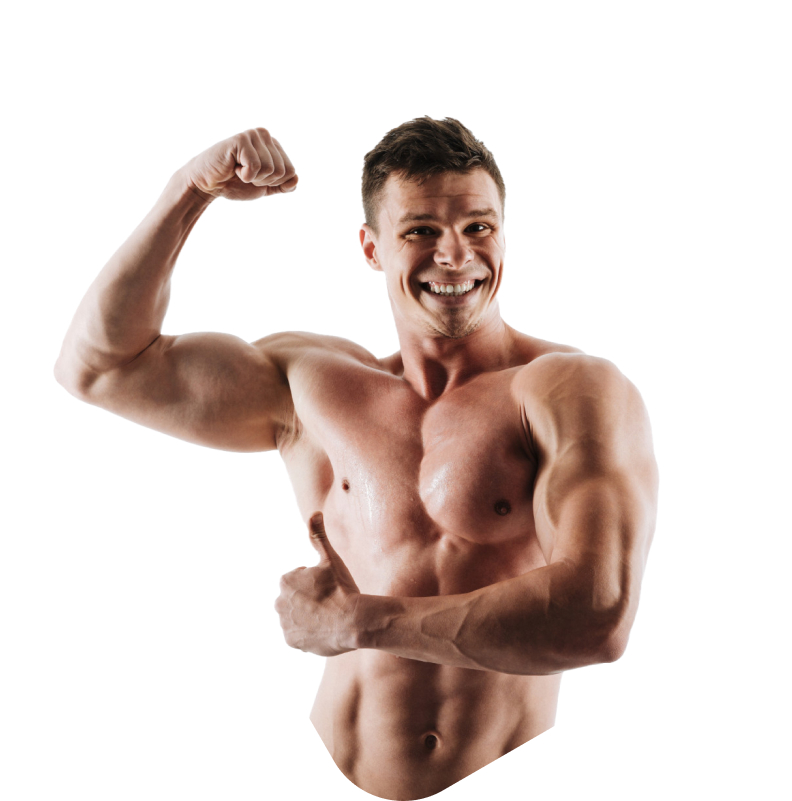
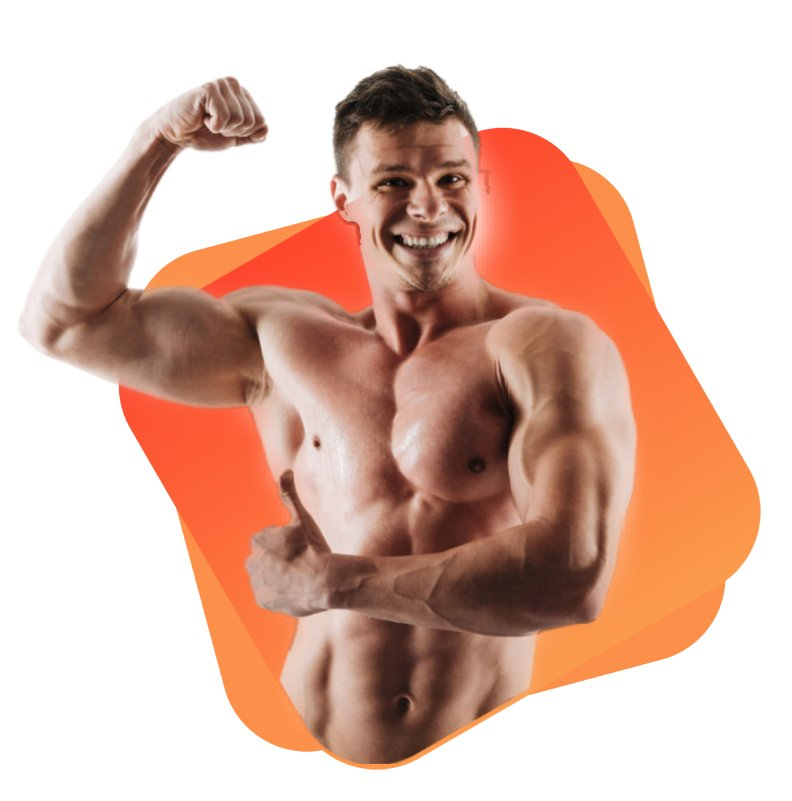
Section One partly completed

diff --git a/index.html b/index.html
@@ -9,16 +9,26 @@
     <link rel="preconnect" href="https://fonts.googleapis.com">
     <link rel="preconnect" href="https://fonts.gstatic.com" crossorigin>
     <link href="https://fonts.googleapis.com/css2?family=Mochiy+Pop+One&family=Poppins:wght@400;800&display=swap" rel="stylesheet">
+    <link rel="preconnect" href="https://fonts.googleapis.com">
+    <link rel="preconnect" href="https://fonts.gstatic.com" crossorigin>
+    <link href="https://fonts.googleapis.com/css2?family=Mochiy+Pop+One&family=Montserrat:wght@500&family=Poppins:wght@400;800&display=swap" rel="stylesheet">
 </head>
 <body>
     <section class="Food-network">
         <div class="Food-network-div-1">
-            <h1><span>Skip</span> The Diet,</h1>
-            <h1>Just Eat Healthy</h1>
-            <h1>With Food Network</h1>
+            <div class="Food-network-child-div-1">
+                <h1><span>Skip</span> The Diet,</h1>
+                <h1>Just Eat Healthy</h1>
+                <h1>With Food Network</h1>
+            </div>
+            <div class="Food-network-child-div-2">
+                <p>Imagine you don't need a diet because we provide</p>
+                <p>healthy and delicious food for you!</p>
+            </div>
         </div>
-        <div>
-            <img src="images/male/Hero Image.jpg" alt="">
+        
+        <div class="Food-network-div-2">
+            <img src="images/male/Hero Image.png" alt="">
         </div>
     </section>
     

diff --git a/style.css b/style.css
@@ -1,21 +1,34 @@
-body{
+/* body{
     background-color: #e5e5e5;
-}
-/* .Food-network{
-    display: flex;
 } */
-.Food-network-div-1{
+.Food-network{
+    display: flex;
+}
+.Food-network-child-div-1{
     font-family: 'Mochiy Pop One', sans-serif;
     font-family: 'Poppins', sans-serif;
-    /* size: 60px;
-    line-height: 78px; */
-    margin-top: 262px;
-    margin-left: 100px;
-    position:absolute;
+    font-weight: 700;
+    margin-top: 180px;
+    margin-left: 120px;
     width: 623px;
     height: 234px;
+    font-size: 30px;
+    line-height: 130%;
 
 }
-.Food-network-div-1 span{
+.Food-network-child-div-1 span{
     color: rgb(247, 164, 9);
+}
+.Food-network-child-div-2{
+    font-family: 'Mochiy Pop One', sans-serif;
+    font-family: 'Montserrat', sans-serif;
+    font-family: 'Poppins', sans-serif;
+    font-weight: 700;
+    /* margin-top: 38px; */
+    margin-left: 120px;
+}
+.Food-network-div-2{
+    width: 792px;
+    height: 843.96px;
+    margin-right: 50px;
 }
